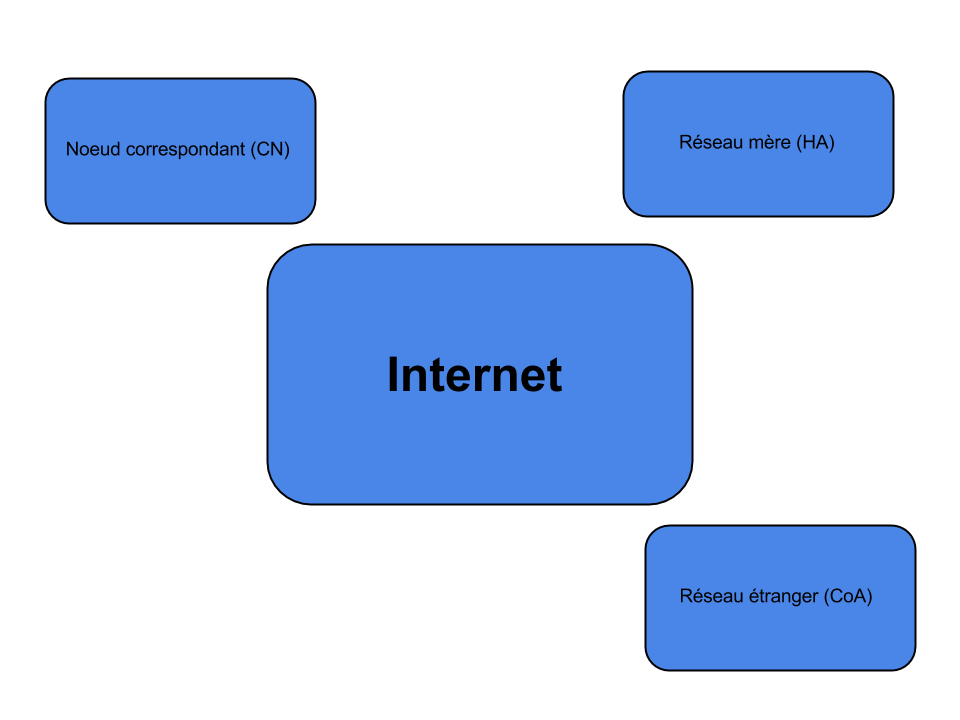
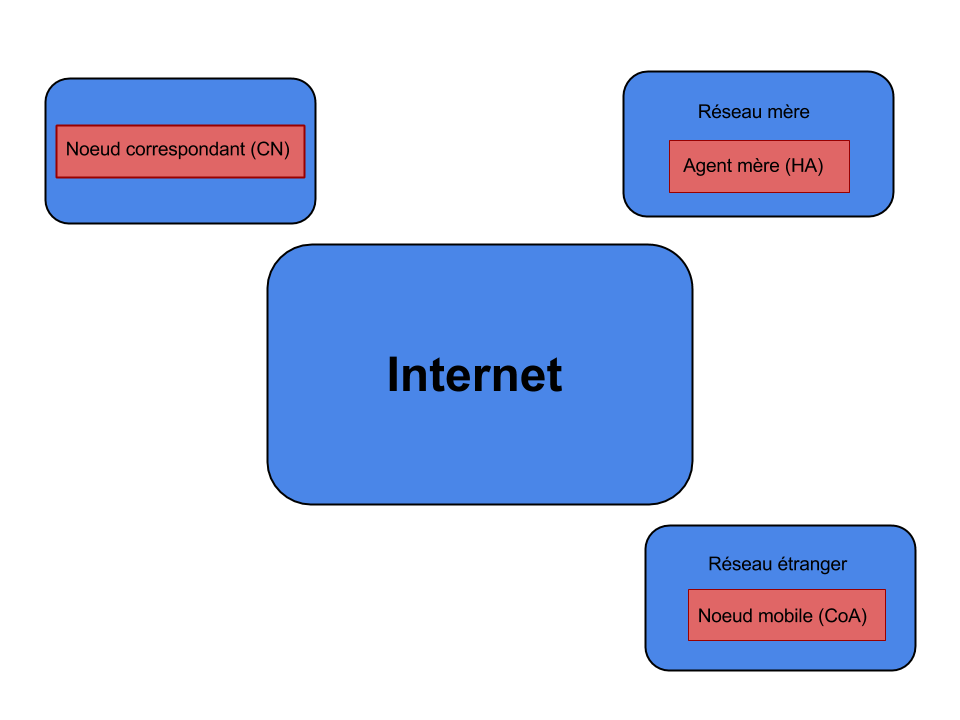
maj images et corrections

Changed region(s): [[0.0312, 0.1528, 0.3438, 0.275], [0.6875, 0.7639, 0.9375, 0.9167], [0.6875, 0.1528, 0.9062, 0.275]]

diff --git a/mobilite.tex b/mobilite.tex
@@ -1,12 +1,12 @@
 \section{Mobilité IPv6 (MIPv6)}
 
-Pour assurer la communication, avec le protocole IP, entre des noeuds du réseaux, il faut assigner une adresse IP à chaque noeud.
-Or, cette adresse IP est liée au réseau dans lequel chaque noeud est situé.
-Imaginons que l'on veuille déplacer un noeud entre plusieurs réseaux sans interrompre ses connexions, il faut pour cela que le noeud soit toujours joignable avec la même adresse IP.
-Dans le cas contraire, sur une connexion déjà établie, le noeud deviendra injoignable lors d'un changement de réseau et la connexion sera fermée.
+Pour assurer la communication, avec le protocole IP, entre des nœuds du réseaux, il faut assigner une adresse IP à chaque nœud.
+Or, cette adresse IP est liée au réseau dans lequel chaque nœud est situé.
+Imaginons que l'on veuille déplacer un nœud entre plusieurs réseaux sans interrompre ses connexions, il faut pour cela que le nœud soit toujours joignable avec la même adresse IP.
+Dans le cas contraire, sur une connexion déjà établie, le nœud deviendra injoignable lors d'un changement de réseau et la connexion sera fermée.
 
 Mobilité IPv6 permet de résoudre ce problème.
-Ce méchanisme permet d'autoriser un noeud à conserver son adresse IP même s'il change de réseau.
+Ce mécanisme permet d'autoriser un nœud à conserver son adresse IP même s'il change de réseau.
 Pour cela un équipement est attaché à un réseau, ce sera son \emph{réseau mère}, qui lui fournira une adresse IP fixe et ce dernier permettra d’assurer la continuité des connexions établies.
 On parle de \emph{home address} (HoA) pour l’adresse IP fixe liée au réseau mère (\emph{home network}).
 De plus l’équipement aura toujours une adresse IP variable et temporaire liée à sa localisation et au réseau auquel il est directement connecté, on parle de \emph{care-of address} (CoA).
@@ -18,23 +18,23 @@ Le schéma suivant permet de résumer et expliciter tout cela :
 
 On retrouve le nœud correspondant, qui est le serveur à joindre, le réseau mère qui fait la liaison entre les 2 adresses et le réseau étranger où se trouve physiquement notre équipement.
 La HoA se situe donc sur le réseau mère et la CoA se situe sur le réseau étranger.
-Voyons maintenant les cas d’utilisations de ce système.
+Voyons maintenant les cas d’utilisation de ce système.
 
-\subsection{Le noeud mobile est dans son réseau mère}
+\subsection{Le nœud mobile est dans son réseau mère}
 
-C’est le cas le plus simple, il utilise directement sa \emph{Home Address} et on a un routage classique pour la communication entre le noeud mobile et le serveur.
+C’est le cas le plus simple, il utilise directement sa \emph{Home Address} et on a un routage classique pour la communication entre le nœud mobile et le serveur faisant office de correspondant.
 
 \scalefig{images/schema2}{.7}{}
 
-\subsection{Le mobile est dans un réseau étranger}
+\subsection{Le nœud mobile est dans un réseau étranger}
 
-C’est là que cela devient intéressant, le mobile aura donc sa HoA et une adresse étrangère CoA acquise par les mécanismes d’auto-configuration sur le réseau étranger où est physiquement le noeud mobile.
+C’est là que cela devient intéressant, le mobile aura donc sa HoA et une adresse étrangère CoA acquise par les mécanismes d’auto-configuration sur le réseau étranger où est physiquement le nœud mobile.
 L’agent mère va donc tenir sa table d’association et associer la HoA avec la CoA.
-Si un correspondant veut envoyer un paquet au noeud mobile il enverra un paquet avec comme source la sienne et comme destination la \emph{Home Address} du noeud mobile.
-Une fois arrivé à l’agent mère le paquet va être routé vers la CoA du noeud mobile.
+Si un correspondant veut envoyer un paquet au nœud mobile il enverra un paquet avec comme source la sienne et comme destination la \emph{Home Address} du nœud mobile.
+Une fois arrivé à l’agent mère le paquet va être routé vers la CoA du nœud mobile.
 Pour cela l’agent mère encapsule le paquet qui a donc comme source l’adresse de l’agent mère et comme destination la CoA du mobile.
 Une fois arrivé au mobile le paquet est désencapsulé et transmis aux couches supérieurs avec donc comme source et destinations celles du premier paquet.
-Au yeux du mobile c’est comme s’il était sur son réseau mère, les connexions ne sont donc plus coupées car même si la CoA change, au yeux du mobile la destination est toujours sa HoA qui ne change pas.
+Les connexions ne sont donc plus coupées car même si la CoA change, la destination des connexions est toujours la HoA qui ne change pas.
 L’encapsulation se fait grâce à l’extension d’en-tête IP-IP d’IPv6, dès lors les paquets sont protégés par IPsec et tunnelé vers la CoA en toute sécurité.
 
 \scalefig{images/schema3}{.7}{}
@@ -42,7 +42,7 @@ L’encapsulation se fait grâce à l’extension d’en-tête IP-IP d’IPv6, d
 
 \subsection{Mécanisme d’association}
 
-Pour créer ou mettre à jour une association au niveau de l’agent mère, lors d’un changement de réseau du noeud mobile par exemple, un mécanisme spécifique de Mobilité IPv6 est utilisé.
+Pour créer ou mettre à jour une association au niveau de l’agent mère, lors d’un changement de réseau du nœud mobile par exemple, un mécanisme spécifique de Mobilité IPv6 est utilisé.
 Il s’agit du \emph{Binding Update (BU)}, appelé en français mise à jour d’association.
 Ce mécanisme utilise un mécanisme du NDP permettant de savoir qu’un hôte n’est plus accessible.
 
@@ -55,17 +55,17 @@ Il faut donc garder à l’esprit que la mobilité se fait bien sans cela, il ne
 \subsection{Optimisation du routage}
 
 Pour gagner en efficacité dans certains cas, l’optimisation de routage a été mise en place.
-Le principe est simple et reprend le mécanisme général avec le réseau mère, seulement ici le noeud correspondant va aussi tenir une table d’association HoA/CoA, comme l'agent mère.
-Ainsi par ce biais-là, on garde le même mécanisme, mais le noeud correspondant se substitue à l'agent mère.
-Le noeud mobile contacte directement au noeud correspondant, qui va enlever l’en-tête et obtenir un paquet venant de la HoA et à destination du CN, la connexion n’est donc pas brisée.
+Le principe est simple et reprend le mécanisme général avec le réseau mère, seulement ici le nœud correspondant va aussi tenir une table d’association HoA/CoA, comme l'agent mère.
+Ainsi par ce biais-là, on garde le même mécanisme, mais le nœud correspondant se substitue à l'agent mère.
+Le nœud mobile contacte directement au nœud correspondant, qui va enlever l’en-tête et obtenir un paquet venant de la HoA et à destination du CN, la connexion n’est donc pas brisée.
 
 \scalefig{images/schema6}{.7}{}
 \scalefig{images/schema7}{.7}{}
 
 Il faut aussi faire des Binding Update pour garder à jour les tables d’associations.
-Le noeud mobile doit donc connaître les agents auxquels il doit envoyer ces mises à jour.
-Il a donc une table des agents et lors d’un BU il enverra à son agent mère et au noeud correspondant supportant l’optimisation de routage.
-Il doit toujours tenir à jour l’agent mèrei, car certaines connexions ne supportent pas l’optimisation suivant le serveur correspondant, il peut donc y avoir à la fois des connexions optimisées et d’autres non optimisées.
+Le nœud mobile doit donc connaître les agents auxquels il doit envoyer ces mises à jour.
+Il a donc une table des agents et lors d’un BU il enverra à son agent mère et au nœud correspondant supportant l’optimisation de routage.
+Il doit toujours tenir à jour l’agent mère, car certaines connexions ne supportent pas l’optimisation suivant le serveur correspondant, il peut donc y avoir à la fois des connexions optimisées et d’autres non optimisées.
 
 \scalefig{images/schema8}{.7}{}
 

diff --git a/presentation.tex b/presentation.tex
@@ -3,7 +3,7 @@
   
 \begin{itemize}
   \item La première grande différence est la longueur des adresses qui passe de 32 bits à 128 bits. Le nombre d’adresses augmente donc considérablement.
-  \item On passe d’une écriture décimale (\texttt{172.69.31.15}) à une héxadécimale (\texttt{2001:0db8:0000:85a3:0000:0000:ac1f:8001})
+  \item On passe d’une écriture décimale (\texttt{172.69.31.15}) à une hexadécimale (\texttt{2001:0db8:0000:85a3:0000:0000:ac1f:8001})
   \item Il est permis de ne pas noter les zéros non significatifs. Ainsi l'adresse précédente devient : \texttt{2001:db8:0:85a3:0:0:ac1f:8001}
   \item Des groupes de bits nuls peuvent être omis en gardant les deux-points. Par exemple, dans \texttt{2001:db8:0:85a3::ac1f:8001}, on sait qu'il s’agit de groupes nuls à la place de \texttt{::}. Cette substitution ne peut se faire qu’à un seul endroit, sinon l’adresse devient ambiguë : \texttt{2001:db8::85a3::ac1f:8001} n'est pas valide car on ne sait pas où sont les groupes nuls et comment repartir leur nombre.
   \item Il n’y a plus de masques sous la forme de quatre groupes d'un octet, comme avec IPv4.
@@ -12,7 +12,7 @@ Elle consiste en un slash (\texttt{/}), suivi de la longueur du préfixe réseau
 Le couple formé par le préfixe réseau et la longueur du préfixe permet de savoir de quel type d’adresse il s’agit.
 \end{itemize}
 
-\subsection{Types d’adresse IPv6}
+\subsection{Types d’adresses IPv6}
 
 \begin{itemize}
   \item	\texttt{::/128} : adresse non spécifiée, c’est le \emph{this} pour l’attribution d’une adresse.

diff --git a/introduction.tex b/introduction.tex
@@ -3,10 +3,10 @@
 IPv6 est la nouvelle version du protocole IP (couche 3 du modèle OSI), succédant à IPv4, qui est aujourd'hui couramment utilisée.
 Elle a été développée pour plusieurs raisons.
 \begin{itemize}
-  \item À cause la pénurie d’adresses au niveau mondial, il fallait pouvoir proposer une solution permettant d'augmenter l'espace d'adressage.
+  \item À cause de la pénurie d’adresses au niveau mondial, il fallait pouvoir proposer une solution permettant d'augmenter l'espace d'adressage.
   \item Plusieurs champs de l'en-tête IPv4 sont peu ou pas du tout utilisé. IPv6 apporte une simplification du format de l'en-tête.
   \item Les changements de l'en-tête permettent une gestion plus flexible des options et permet l'ajout de nouvelles options dans le futur.
-  \item Des fonctionnalités d'authentification et de confidentialité auparavant séparées du protocole IP, sont maintenant directemment implémentées dans le protocole.
+  \item Des fonctionnalités d'authentification et de confidentialité auparavant séparées du protocole IP, sont maintenant directement implémentées dans le protocole.
 \end{itemize}
   
 Cette étude présente les caractéristiques de cette nouvelle version, puis quelques détails sur son implémentation.

diff --git a/miseenoeuvre.tex b/miseenoeuvre.tex
@@ -279,7 +279,7 @@ router#debug ipv6 mobile router
 
 Il existe plusieurs implémentations de Mobile IPv6 sous Linux.
 
-Nous avons choisi \emph{UMIP} \footnote{Universal Mobile IP for Linux, \url{http://www.umip.org/}}, qui est une implementation de la RFC6275\footnote{\url{http://tools.ietf.org/html/rfc6275}}.
+Nous avons choisi \emph{UMIP} \footnote{Universal Mobile IP for Linux, \url{http://www.umip.org/}}, qui est une implémentation de la RFC6275\footnote{\url{http://tools.ietf.org/html/rfc6275}}.
 
 Une autre alternative est \emph{MIPL} \footnote{Mobile IPv6 for Linux, \url{http://www.mobile-ipv6.org} (plus disponible)}, dont une documentation est encore disponible \footnote{\url{http://tldp.org/HOWTO/Mobile-IPv6-HOWTO/mipv6.html}}, mais dont le site principal, et donc les sources, n'est plus accessible.
 
